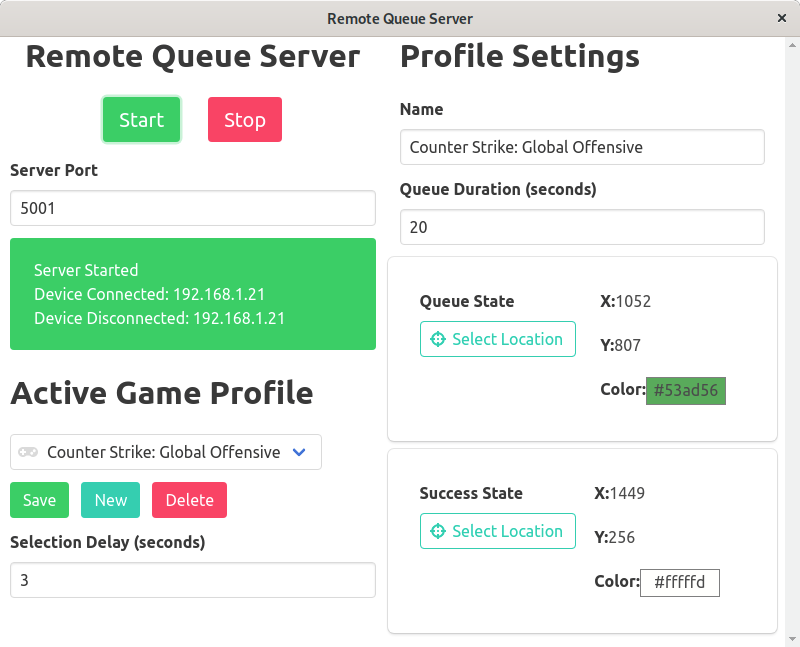
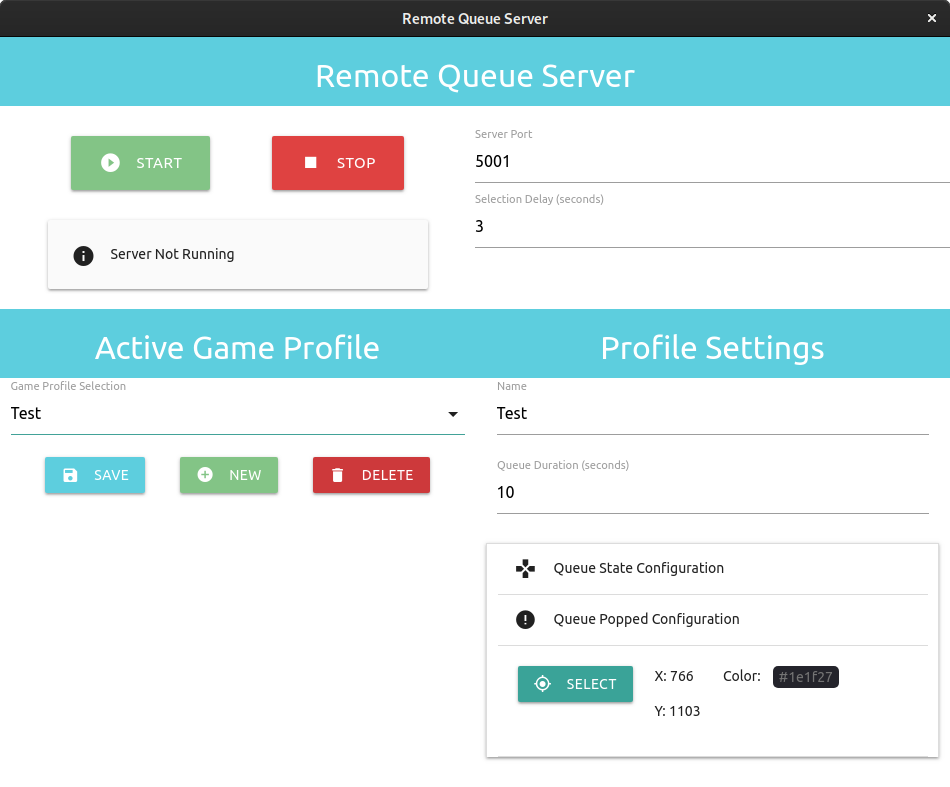
Finish GUI update. Add new screenshot

diff --git a/server/index.html b/server/index.html
@@ -16,17 +16,19 @@
 <body>
   <!-- Server Controls / Settings -->
   <div class="row">
-    <div class="col s12 teal lighten-2">
+    <div class="main-header col s12 cyan lighten-2">
       <h4 class="center-align">Remote Queue Server</h4>
     </div>
-  </div>
-  <div class="row container">
     <div class="col s6">
-      <div class="row">
-        <a class="waves-effect waves-light btn-large green darken-2" id="startBtn"><i
+      <div class="server-buttons">
+        <a class=" waves-effect waves-light btn-large green lighten-2" id="startBtn"><i
             class="material-icons left">play_circle_filled</i>Start</a>
         <a class="waves-effect waves-light btn-large red darken-1" id="stopBtn"><i
             class="material-icons left">stop</i>Stop</a>
+      </div>
+      <div class="server-status card-panel grey lighten-5 z-depth-1">
+        <i class="material-icons left">info</i>
+        <div id="info">Server Not Running</div>
       </div>
     </div>
     <div class="col s6">
@@ -34,132 +36,169 @@
         <label class="label">Server Port</label>
         <input class="input" type="text" id="portInput" value="5001" />
       </div>
-      <div class="card-panel grey lighten-5 z-depth-1">
-        <i class="material-icons left">info</i>
-        <div id="info">Server Not Running</div>
+      <!-- State Selection Delay -->
+      <div class="input-field">
+        <label class="label">Selection Delay (seconds)</label>
+        <input class="input" type="text" id="delayInput" value="3"></input>
       </div>
     </div>
-
   </div>
 
   <!-- Profiles Management Controls -->
   <div class="row">
-    <div class="col s12 teal lighten-2">
-      <h4 class="center-align">Active Game Profile</h4>
-    </div>
-  </div>
-
-  <div class="row">
-    <div class="input-field col s6">
-      <select name="games" id="games"></select>
-      <label>Game Profile Selection</label>
-
-      <div class="row">
-        <div class="col s12">
-          <!-- State Selection Delay -->
-          <div class="input-field">
-            <label class="label">Selection Delay (seconds)</label>
-            <input class="input" type="text" id="delayInput" value="3"></input>
-          </div>
-        </div>
-      </div>
-    </div>
     <div class="col s6">
-      <div class="row"><a class="waves-effect waves-light btn cyan lighten-2" id="saveBtn">
+      <div class="col s12 cyan lighten-2">
+        <h4 class="center-align">Active Game Profile</h4>
+      </div>
+      <div class="input-field col s12">
+        <select name="games" id="games"></select>
+        <label>Game Profile Selection</label>
+      </div>
+      <div class="col s12" id="profile-buttons">
+        <a class="waves-effect waves-light btn cyan lighten-2" id="saveBtn">
           <i class="material-icons left">save</i>
           Save
-        </a></div>
-      <div class="row">
+        </a>
         <a class="waves-effect waves-light btn green lighten-2" id="addBtn">
           <i class="material-icons left">add_circle</i>
           New
         </a>
-      </div>
-      <div class="row">
         <a class="waves-effect waves-light btn red darken-2" id="deleteBtn">
           <i class="material-icons left">delete</i>
           Delete
         </a>
       </div>
     </div>
-  </div>
+    <div class="col s6">
+      <!-- Selected Profile Settings -->
+      <!-- <div class="row"> -->
+      <div class="col s12 cyan lighten-2">
+        <h4 class="center-align">Profile Settings</h4>
+      </div>
+      <!-- </div> -->
 
-  <!-- Selected Profile Settings -->
-  <div class="row">
-    <div class="col s12 teal lighten-2">
-      <h4 class="center-align">Profile Settings</h4>
-    </div>
-  </div>
+      <div id="profile-settings">
+        <!-- Selected Profile Name Input -->
+        <div class="input-field col s12">
+          <label class="active" for="nameInput">Name</label>
+          <input class="input" type="text" id="nameInput"></input>
+        </div>
 
-  <div class="container">
-    <!-- Selected Profile Name Input -->
-    <div class="input-field">
-      <label class="active" for="nameInput">Name</label>
-      <input class="input" type="text" id="nameInput"></input>
-    </div>
+        <!-- State Selection Delay -->
+        <div class="input-field col s12">
+          <label>Queue Duration (seconds)</label>
+          <input class="input" type="text" id="queueDurationInput" value="20" />
+        </div>
 
-    <!-- State Selection Delay -->
-    <div class="input-field">
-      <label>Queue Duration (seconds)</label>
-      <input class="input" type="text" id="queueDurationInput" value="20" />
-    </div>
-
-    <ul class="collapsible">
-      <li>
-        <div class="collapsible-header"><i class="material-icons">games</i>Queue State Configuration</div>
-        <div class="collapsible-body">
-          <div class="row">
-            <div class="col s6">
-              <a class="waves-effect waves-light btn" id="queueBtn"><i class="material-icons left">gps_fixed</i>Choose
-                Location</a>
+        <!-- Collapsible list of game states -->
+        <ul class="collapsible col s12">
+          <li class="active">
+            <div class="collapsible-header">
+              <i class="material-icons">games</i>Queue State Configuration
             </div>
-            <div class="col s6">
+            <div class="collapsible-body">
               <div class="row">
-                <div class="col s6">
-                  <label for="queueX" class="label">X: </label>
-                  <p id="queueX"></p>
+                <div class="col s4">
+                  <a class="waves-effect waves-light btn" id="queueBtn"><i
+                      class="material-icons left">gps_fixed</i>SELECT</a>
                 </div>
                 <div class="col s6">
-                  <label for="queueY" class="label">Y: </label>
-                  <p id="queueY"></p>
+                  <div class="col s4">
+                    <p>X: <span id="queueX"></span></p>
+                    <p>Y: <span id="queueY"></span></p>
+                  </div>
+                  <div class="col s8">
+                    <p>Color:
+                      <span class="badge" id="queueColor"></span>
+                    </p>
+                  </div>
                 </div>
               </div>
-              <label for="queueColor" class="label">Color: </label>
-              <span class="badge" id="queueColor"></span>
             </div>
-          </div>
-        </div>
-      </li>
-      <li>
-        <div class="collapsible-header"><i class="material-icons">error</i>Queue Popped Configuration</div>
-        <div class="collapsible-body">
-          <div class="row">
-            <div class="col s6">
-              <a class="waves-effect waves-light btn" id="successBtn"><i class="material-icons left">gps_fixed</i>Choose
-                Location</a>
-            </div>
-            <div class="col s6">
+          </li>
+          <li>
+            <div class="collapsible-header"><i class="material-icons">error</i>Queue Popped Configuration</div>
+            <div class="collapsible-body">
               <div class="row">
-                <div class="col s6"><label for="successX" class="label">X: </label>
-                  <p id="successX"></p>
+                <div class="col s4">
+                  <a class="waves-effect waves-light btn" id="successBtn"><i
+                      class="material-icons left">gps_fixed</i>SELECT</a>
                 </div>
-                <div class="col s6"><label for="successX" class="label">Y: </label>
-                  <p id="successY"></p>
+                <div class="col s6">
+                  <div class="col s4">
+                    <p>X: <span id="successX"></span></p>
+                    <p>Y: <span id="successY"></span></p>
+                  </div>
+                  <div class="col s8">
+                    <p>Color:
+                      <span class="badge" id="successColor"></span>
+                    </p>
+                  </div>
                 </div>
               </div>
-              <label for="successColor" class="label">Color: </label>
-              <span class="badge" id="successColor"></span>
-            </div>
-          </div>
-        </div>
-      </li>
-    </ul>
+          </li>
+        </ul>
+      </div>
+    </div>
   </div>
+
+
 </body>
 
 <style>
   h4 {
     color: white;
+  }
+
+  p {
+    margin-top: 0;
+  }
+
+  div.row {
+    margin: 0;
+  }
+
+  div.col.s6 {
+    padding: 0;
+  }
+
+  .main-header {
+    margin-bottom: 20px;
+  }
+
+  .server-buttons {
+    padding: 10px;
+    display: flex;
+    flex-flow: row nowrap;
+    justify-content: space-evenly;
+    align-items: center;
+  }
+
+  .server-status {
+    margin-top: 20px;
+    margin-bottom: 20px;
+    margin-left: 10%;
+    width: 80%;
+  }
+
+  #profile-buttons {
+    display: flex;
+    flex-flow: row nowrap;
+    justify-content: space-evenly;
+    align-items: center;
+  }
+
+  #profile-settings {
+    padding-left: 11px;
+    padding-right: 11px;
+  }
+
+  div.collapsible-body {
+    padding: 20px;
+  }
+
+  .badge {
+    border-radius: 5px;
   }
 </style>
 

diff --git a/server/src/renderer.ts b/server/src/renderer.ts
@@ -16,6 +16,7 @@ let startBtn = document.getElementById("startBtn");
 let stopBtn = document.getElementById("stopBtn");
 let portInput = <HTMLInputElement>document.getElementById("portInput");
 let info = document.getElementById("info");
+let statusCard = document.getElementsByClassName("server-status");
 
 // PROFILES CONFIGURATION
 let gameSelect = <HTMLSelectElement>document.getElementById("games");
@@ -209,7 +210,7 @@ function startServer() {
   server.setGame(profiles[selectIndex]);
   server.startServer();
   info.innerText = "Server Started";
-  info.classList.add("pulse")
+  statusCard[0].classList.add("pulse")
 }
 
 stopBtn.onclick = stopServer;
@@ -218,7 +219,7 @@ stopBtn.onclick = stopServer;
 function stopServer() {
   server.stopServer();
   info.innerText = "Server Stopped";
-  info.classList.remove("pulse")
+  statusCard[0].classList.remove("pulse")
 }
 
 /** 

diff --git a/server/src/main.ts b/server/src/main.ts
@@ -10,8 +10,9 @@ function createWindow() {
       nodeIntegration: true
     },
     autoHideMenuBar: true,
-    height: 610,
-    width: 800,
+    height: 750,
+    width: 950,
+    resizable: false,
   });
 
   // and load the index.html of the app.
@@ -19,7 +20,6 @@ function createWindow() {
 
   // Open the DevTools.
   mainWindow.webContents.openDevTools();
-  mainWindow.setResizable(false);
 
   // Emitted when the window is closed.
   mainWindow.on("closed", () => {
